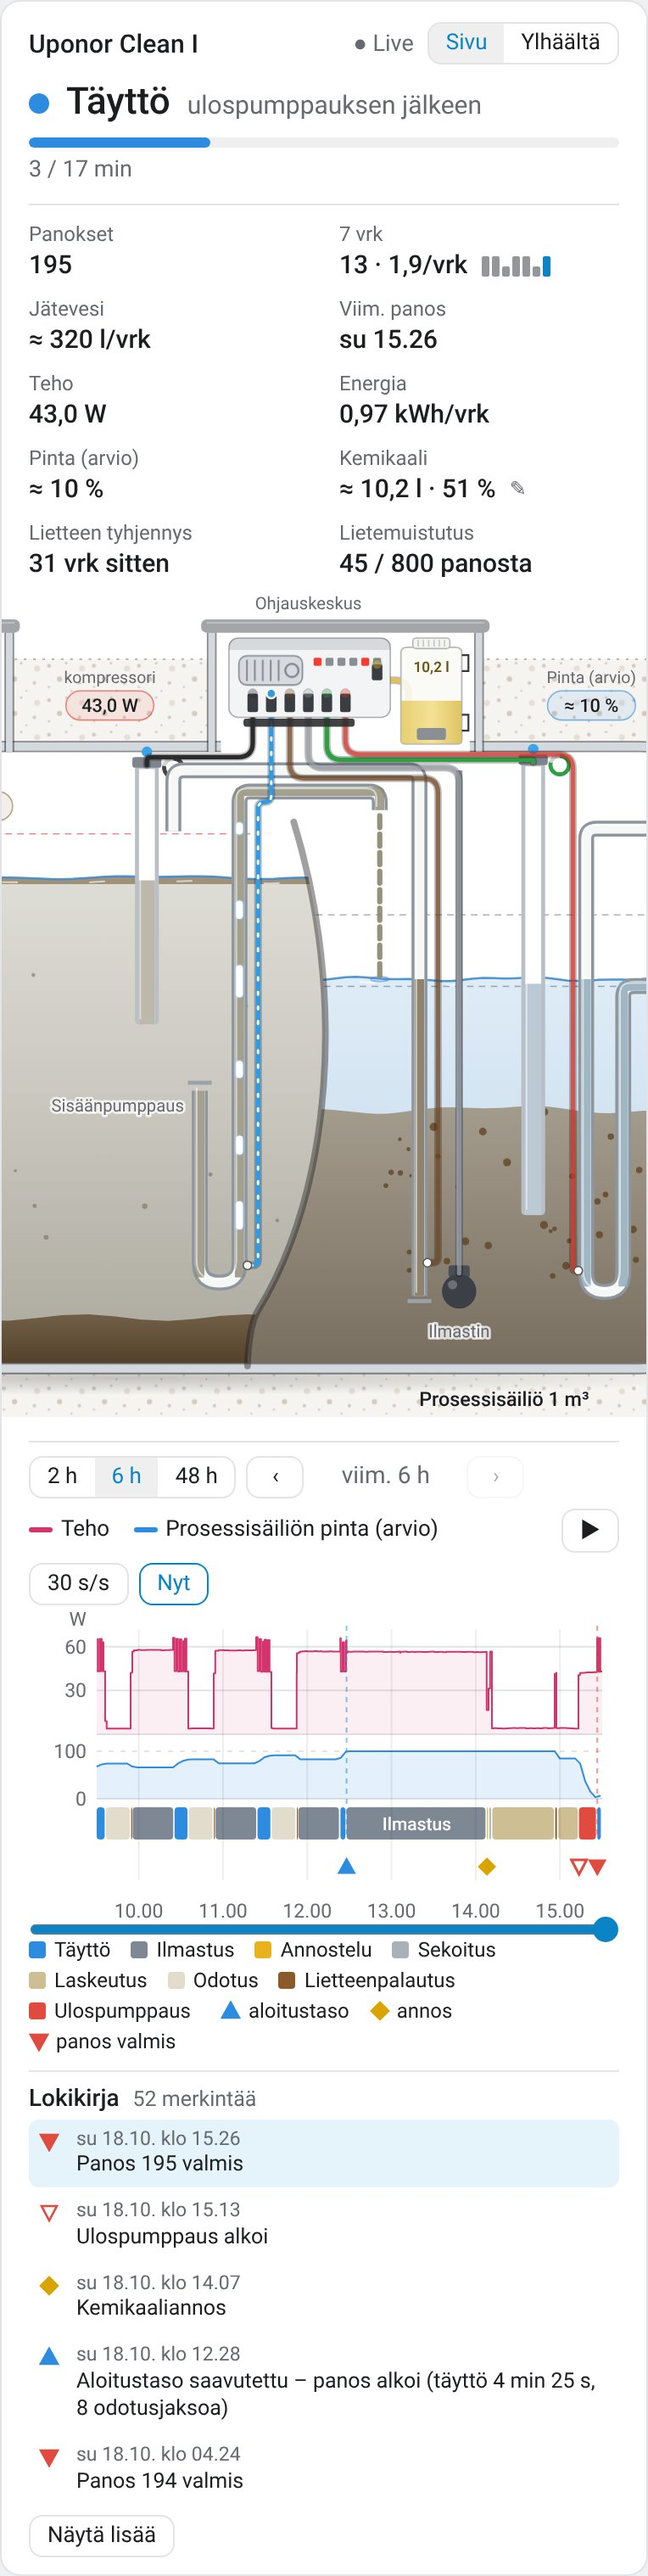
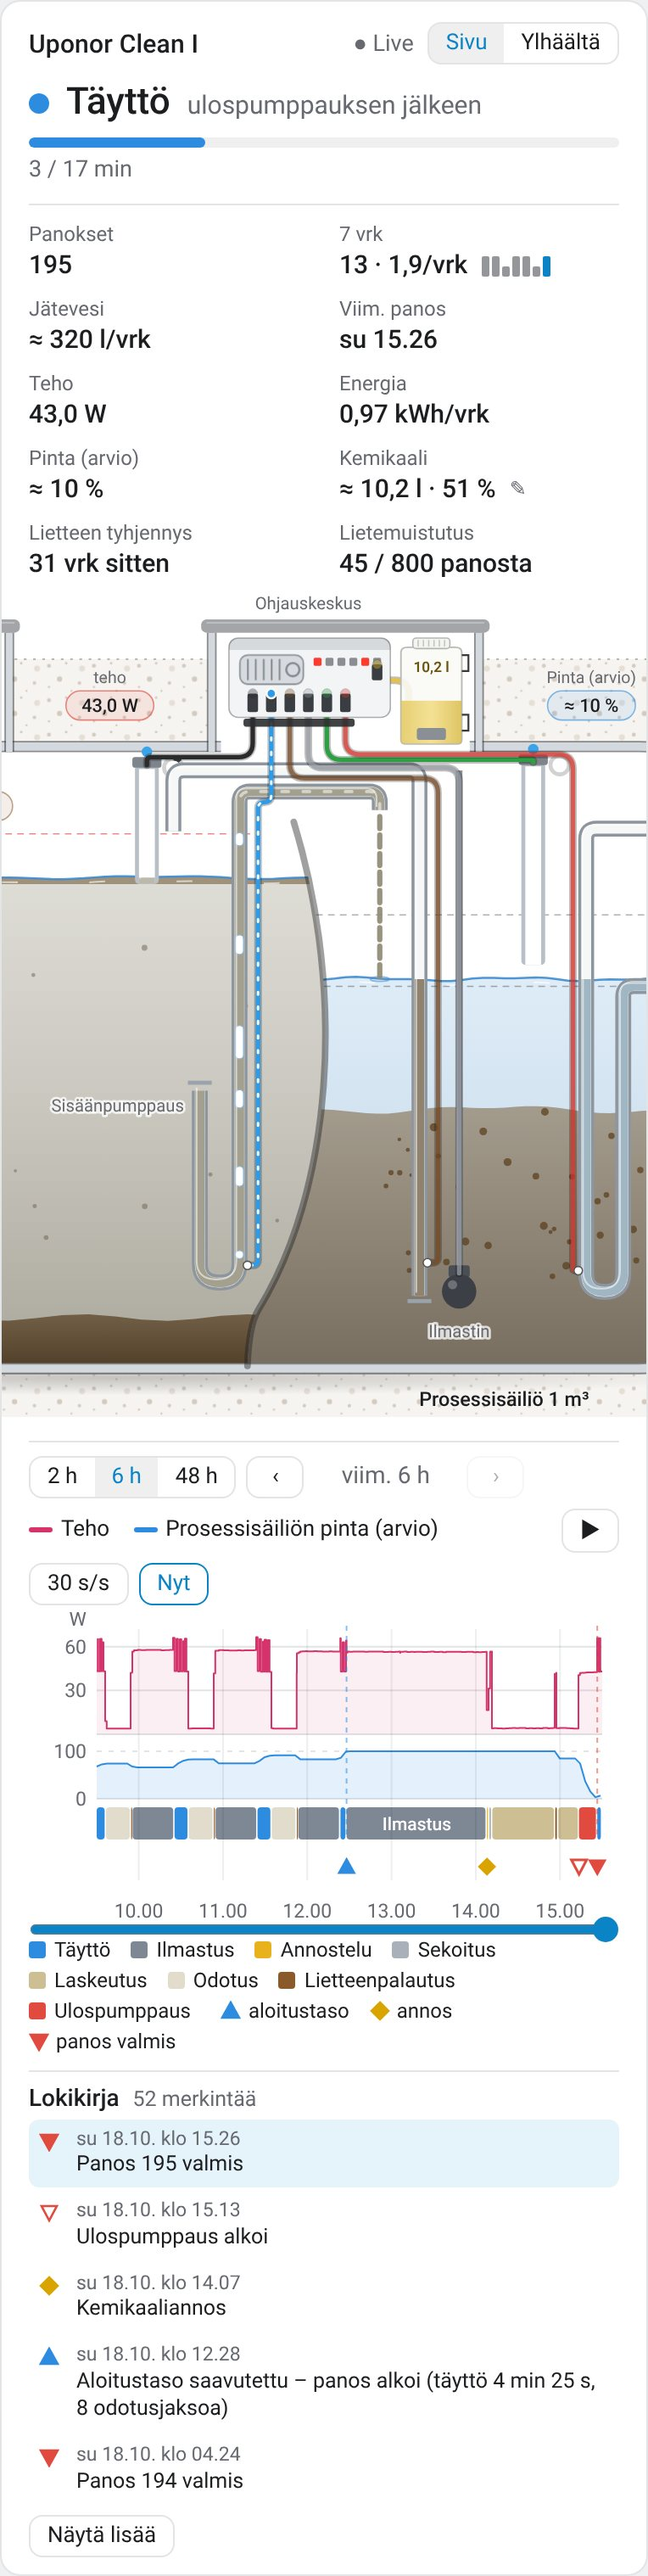
Card images for 1.7.3
Preview images (side view, pump-out, top view, dark theme, narrow
screen, English README image) re-rendered from the 1.7.3 preview, and
new Home Assistant screenshots of the card and its editor. The preview
page names the card version.

Claude-Session: https://claude.ai/code/session_013N1LumQrB2qyWVDVuPZ4Fc

diff --git a/ha-card/preview.html b/ha-card/preview.html
@@ -47,7 +47,7 @@
     <label for="theme">Theme</label>
     <select id="theme"><option value="">System</option><option value="light">Light</option><option value="dark">Dark</option></select>
   </div>
-  <p class="note">The card below runs on power data recorded in Home Assistant from 8–18 October 2026 (Shelly EM Mini Gen4). Phases and messages were recomputed from that data with Shelly script v2.4. The simulated clock plays the data forward: scroll back on the timeline, press play, or pick a logbook entry to jump. Click the chemical value to set the amount in the tank. Process-tank and sedimentation levels are estimates from the phase history, not measurements.</p>
+  <p class="note">The card below runs on power data recorded in Home Assistant from 8–18 October 2026 (Shelly EM Mini Gen4). Phases and messages were recomputed from that data with Shelly script v2.4. The simulated clock plays the data forward: scroll back on the timeline, press play, or pick a logbook entry to jump. Click the chemical value to set the amount in the tank. Process-tank and sedimentation levels are estimates from the phase history, not measurements. Card version 1.7.3.</p>
   <div id="host"></div>
 </div>
 <script>
